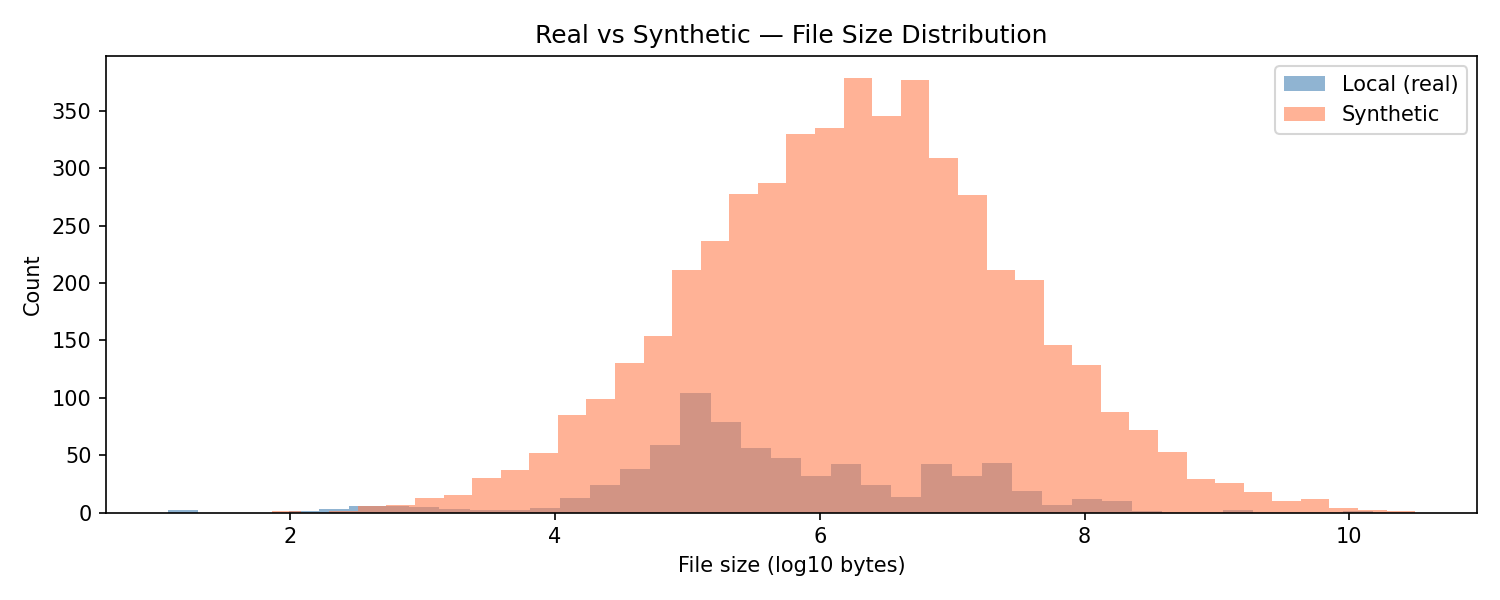
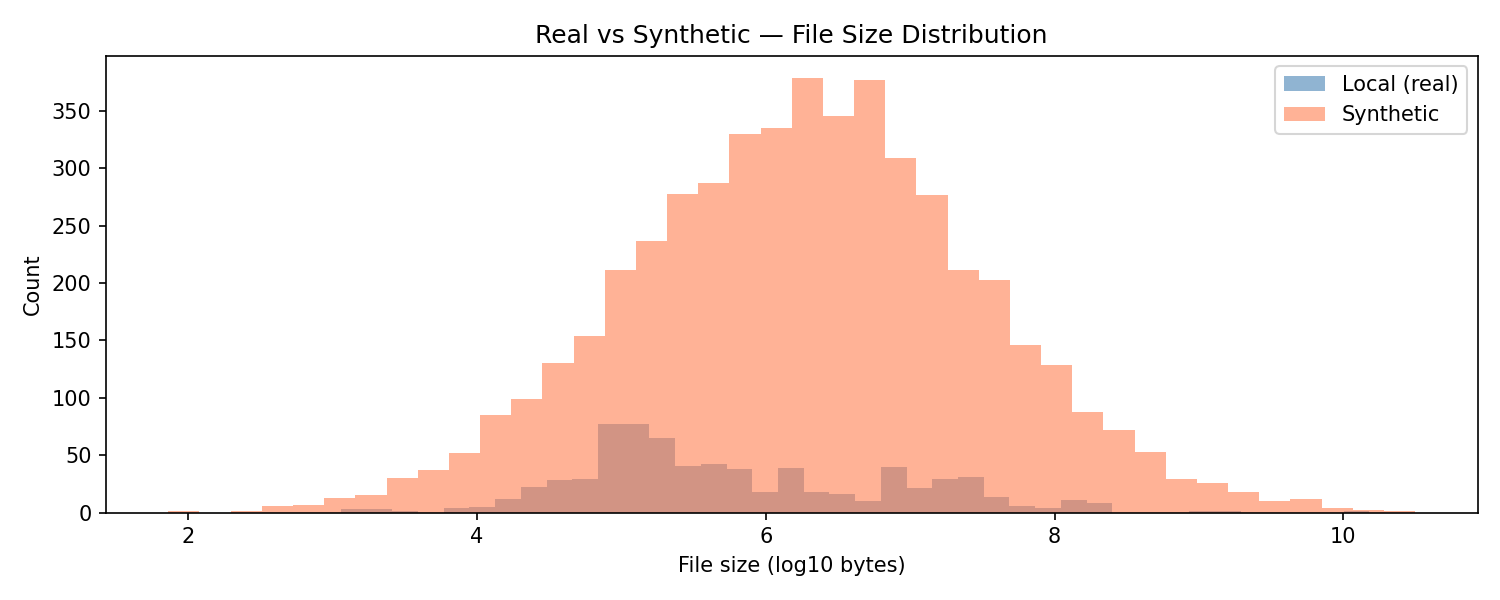
add KS-test validation - distributions differ as expected

diff --git a/src/validation.py b/src/validation.py
@@ -33,6 +33,6 @@ def run_validation(df_local, df_synthetic):
 
 if __name__ == "__main__":
     df = pd.read_csv('data/processed/merged.csv')
-    df_local = df[df['source'] == 'local']
+    df_local = df[(df['source'] == 'local') & (df['size_bytes'] > 1000)]
     df_synthetic = df[df['source'] == 'synthetic']
     run_validation(df_local, df_synthetic)